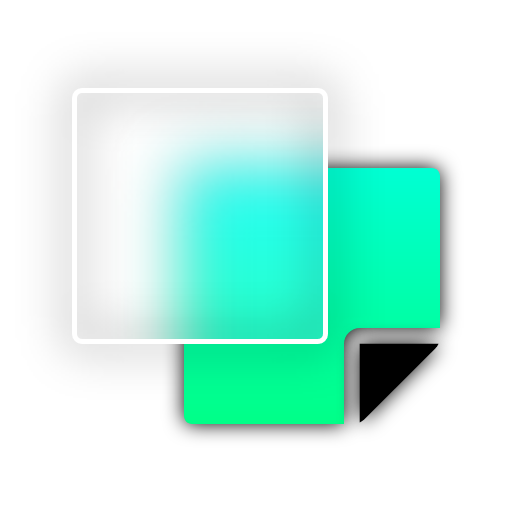
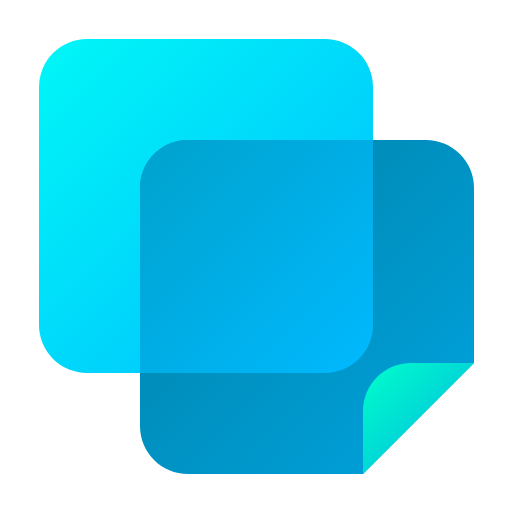
更换了图标，为大部分界面添加了动画，修改了课程表编辑器的界面，优化了自动设置颜色模式的逻辑使其在低版本系统中更好地工作

diff --git a/ZongziTEK_Blackboard_Sticker/TimetableEditor.xaml b/ZongziTEK_Blackboard_Sticker/TimetableEditor.xaml
@@ -6,29 +6,33 @@
         xmlns:ui="http://schemas.inkore.net/lib/ui/wpf/modern"
         xmlns:local="clr-namespace:ZongziTEK_Blackboard_Sticker"
         mc:Ignorable="d"
-        Title="ZongziTEK 黑板贴 - 课程表编辑器" Height="600" Width="800" MinHeight="450" MinWidth="800"
+        Title="ZongziTEK 黑板贴 - 编辑课程表" Height="600" Width="800" MinHeight="450" MinWidth="800"
         ui:WindowHelper.SystemBackdropType="Mica" ui:WindowHelper.UseModernWindowStyle="True" ui:WindowHelper.FixMaximizedWindow="False"
+        ui:TitleBar.Height="48" ui:TitleBar.IsIconVisible="True" ui:TitleBar.ExtendViewIntoTitleBar="True"
         Closing="Window_Closing" WindowStartupLocation="CenterScreen">
     <Grid>
-        <Grid VerticalAlignment="Top" Margin="24,12,24,12">
+        <Grid.RowDefinitions>
+            <RowDefinition Height="48"/>
+            <RowDefinition Height="auto"/>
+            <RowDefinition/>
+            <RowDefinition Height="24"/>
+        </Grid.RowDefinitions>
+        <!--<Grid VerticalAlignment="Top" Margin="24,12,24,12">
             <TextBlock Text="编辑课程表" FontSize="32"/>
             <Button Name="ButtonUseCurriculum" Height="32" Content="切换为旧版课程表 ( 无时间 )" HorizontalAlignment="Right" VerticalAlignment="Center" Click="ButtonUseCurriculum_Click"/>
+        </Grid>-->
+        <Grid Name="GridTitleBar" Grid.Row="0">
+            <Image Source="黑板贴.png" SnapsToDevicePixels="True" Width="16" HorizontalAlignment="Left" Margin="16,8"/>
+            <Label Margin="44,8" Content="ZongziTEK 黑板贴 - 编辑课程表" FontSize="12" VerticalAlignment="Center"/>
         </Grid>
-        <Grid Margin="24,64,24,64">
+        <Grid Grid.Row="2" Margin="16,8,16,0">
             <Grid.RowDefinitions>
                 <RowDefinition Height="auto"/>
                 <RowDefinition Height="auto"/>
                 <RowDefinition/>
             </Grid.RowDefinitions>
-            <ui:SimpleStackPanel Grid.Row="0" Spacing="8">
-                <StackPanel Orientation="Horizontal" Height="21" Opacity="0.8">
-                    <TextBlock Text="当前编辑的是: " FontSize="16"/>
-                    <TextBlock FontSize="16" Text="{Binding SelectedItem.Content, ElementName=ComboBoxDay}"/>
-                    <TextBlock Text="课表" FontSize="16"/>
-                </StackPanel>
-                <ui:InfoBar Name="InfoBarTempTimetable" Title="提示" Message="如需展示临时课表，请在课程表菜单中选择" IsClosable="False"/>
-            </ui:SimpleStackPanel>
-            <Border Height="48" Margin="0,8" Background="{DynamicResource {x:Static ui:ThemeKeys.CardBackgroundFillColorDefaultBrushKey}}" CornerRadius="2" BorderBrush="{DynamicResource BorderBrush}" BorderThickness="1" Grid.Row="1">
+            <ui:InfoBar Name="InfoBarTempTimetable" Grid.Row="0" Title="提示" Message="如需展示临时课表，请在课程表菜单中选择" IsClosable="False"/>
+            <Border Height="48" Margin="0,8" Background="{DynamicResource {x:Static ui:ThemeKeys.CardBackgroundFillColorDefaultBrushKey}}" CornerRadius="4" BorderBrush="{DynamicResource BorderBrush}" BorderThickness="1" Grid.Row="1">
                 <Grid>
                     <Grid.ColumnDefinitions>
                         <ColumnDefinition/>
@@ -46,49 +50,61 @@
                 </ui:SimpleStackPanel>
             </ui:ScrollViewerEx>
         </Grid>
-        <Grid VerticalAlignment="Bottom" Margin="24,12,24,12" Height="32">
-            <ui:SimpleStackPanel Spacing="8" Orientation="Horizontal">
-                <ComboBox Name="ComboBoxDay" Width="100" HorizontalAlignment="Left" SelectionChanged="ComboBoxDay_SelectionChanged">
-                    <ComboBoxItem Content="周一"/>
-                    <ComboBoxItem Content="周二"/>
-                    <ComboBoxItem Content="周三"/>
-                    <ComboBoxItem Content="周四"/>
-                    <ComboBoxItem Content="周五"/>
-                    <ComboBoxItem Content="周六"/>
-                    <ComboBoxItem Content="周日"/>
-                    <ComboBoxItem Content="临时"/>
-                </ComboBox>
-                <Button Name="ButtonCopy" Width="144" Height="32" Padding="10,0" Click="ButtonCopy_Click" HorizontalContentAlignment="Left">
-                    <ui:SimpleStackPanel Orientation="Horizontal" Spacing="8">
-                        <ui:FontIcon Glyph="{x:Static ui:SegoeIcons.Copy}" FontFamily="{StaticResource SegoeFluentIcons}"/>
-                        <Label Name="LabelCopy" Content="复制该天的课表"/>
-                    </ui:SimpleStackPanel>
-                </Button>
-                <Button Name="ButtonPaste" Visibility="Collapsed" Width="32" Height="32" Padding="0" Click="ButtonPaste_Click">
-                    <ui:FontIcon Glyph="{x:Static ui:SegoeIcons.Paste}" FontFamily="{StaticResource SegoeFluentIcons}"/>
-                </Button>
-            </ui:SimpleStackPanel>
-            <Button Name="ButtonInsertLesson" HorizontalAlignment="Center" Width="120" Click="ButtonInsertLesson_Click" VerticalAlignment="Stretch">
-                <ui:SimpleStackPanel Orientation="Horizontal" Spacing="8">
-                    <ui:FontIcon FontFamily="{StaticResource SegoeFluentIcons}" Glyph="{x:Static ui:SegoeIcons.Add}"/>
-                    <Label Content="新建课程"/>
+
+        <Border Grid.Row="1" Height="52" Margin="16,4,16,0" CornerRadius="4" BorderBrush="{DynamicResource BorderBrush}" BorderThickness="1"
+                Background="{DynamicResource {x:Static ui:ThemeKeys.CardBackgroundFillColorDefaultBrushKey}}">
+            <Grid Margin="16,8">
+                <ui:SimpleStackPanel Orientation="Horizontal" VerticalAlignment="Center" Spacing="8">
+                    <ComboBox Name="ComboBoxDay" Width="100" HorizontalAlignment="Left" SelectionChanged="ComboBoxDay_SelectionChanged">
+                        <ComboBoxItem Content="周一"/>
+                        <ComboBoxItem Content="周二"/>
+                        <ComboBoxItem Content="周三"/>
+                        <ComboBoxItem Content="周四"/>
+                        <ComboBoxItem Content="周五"/>
+                        <ComboBoxItem Content="周六"/>
+                        <ComboBoxItem Content="周日"/>
+                        <ComboBoxItem Content="临时"/>
+                    </ComboBox>
+                    <Button Name="ButtonCopy" BorderThickness="0" Background="#00000000" Width="144" Height="32" Padding="10,0" Click="ButtonCopy_Click" HorizontalContentAlignment="Left">
+                        <ui:SimpleStackPanel Orientation="Horizontal" Spacing="8">
+                            <ui:FontIcon Glyph="{x:Static ui:SegoeIcons.Copy}" FontFamily="{StaticResource SegoeFluentIcons}"/>
+                            <Label Name="LabelCopy" Content="复制该天的课表"/>
+                        </ui:SimpleStackPanel>
+                    </Button>
+                    <Button Name="ButtonPaste" BorderThickness="0" Background="#00000000" Width="0" Height="32" Padding="0" Click="ButtonPaste_Click">
+                        <ui:FontIcon Glyph="{x:Static ui:SegoeIcons.Paste}" FontFamily="{StaticResource SegoeFluentIcons}"/>
+                    </Button>
+
+                    <Rectangle Opacity="0.1" Width="1" Fill="{DynamicResource ForegroundColor}"/>
+
+                    <Button Name="ButtonInsertLesson" BorderThickness="0" Background="#00000000" HorizontalAlignment="Center" Width="120" Height="32" Click="ButtonInsertLesson_Click">
+                        <ui:SimpleStackPanel Orientation="Horizontal" Spacing="8">
+                            <ui:FontIcon FontFamily="{StaticResource SegoeFluentIcons}" Glyph="{x:Static ui:SegoeIcons.Add}"/>
+                            <Label Content="新建课程"/>
+                        </ui:SimpleStackPanel>
+                    </Button>
+
+                    <Rectangle Opacity="0.1" Width="1" Fill="{DynamicResource ForegroundColor}"/>
+
+                    <Button Content="关闭" Visibility="Collapsed" Width="80" Click="ButtonClose_Click" VerticalAlignment="Stretch"/>
+                    <Button Name="ButtonExport" BorderThickness="0" Background="#00000000" Width="32" Height="32" Padding="0" Click="ButtonExport_Click">
+                        <ui:FontIcon Glyph="{x:Static ui:SegoeIcons.ExportMirrored}"/>
+                    </Button>
+                    <Button Name="ButtonImport" BorderThickness="0" Background="#00000000" Width="32" Height="32" Padding="0" Click="ButtonImport_Click">
+                        <ui:FontIcon Glyph="{x:Static ui:SegoeIcons.Import}"/>
+                    </Button>
                 </ui:SimpleStackPanel>
-            </Button>
-            <ui:SimpleStackPanel HorizontalAlignment="Right" Spacing="8" Orientation="Horizontal">
-                <Button Content="关闭" Visibility="Collapsed" Width="80" Click="ButtonClose_Click" VerticalAlignment="Stretch"/>
-                <Button Name="ButtonExport" Width="32" Height="32" Padding="0" Click="ButtonExport_Click">
-                    <ui:FontIcon Glyph="{x:Static ui:SegoeIcons.ExportMirrored}"/>
-                </Button>
-                <Button Name="ButtonImport" Width="32" Height="32" Padding="0" Click="ButtonImport_Click">
-                    <ui:FontIcon Glyph="{x:Static ui:SegoeIcons.Import}"/>
-                </Button>
-                <Button Style="{StaticResource AccentButtonStyle}" Click="ButtonSave_Click" VerticalAlignment="Stretch">
+                <Button Style="{StaticResource AccentButtonStyle}" Height="32" HorizontalAlignment="Right" Click="ButtonSave_Click">
                     <ui:SimpleStackPanel Orientation="Horizontal" Spacing="8">
                         <ui:FontIcon Glyph="{x:Static ui:SegoeIcons.Save}"/>
                         <TextBlock Text="保存并关闭"/>
                     </ui:SimpleStackPanel>
                 </Button>
-            </ui:SimpleStackPanel>
-        </Grid>
+            </Grid>
+        </Border>
+        <ui:SimpleStackPanel Grid.Row="3" Margin="14,0" VerticalAlignment="Center" Orientation="Horizontal" Opacity="0.6">
+            <TextBlock Name="TextBlockLessonCount" Foreground="{DynamicResource ForegroundColor}" FontSize="12"/>
+            <TextBlock Foreground="{DynamicResource ForegroundColor}" Text=" 节课" FontSize="12"/>
+        </ui:SimpleStackPanel>
     </Grid>
 </Window>

diff --git a/ZongziTEK_Blackboard_Sticker/LauncherEditor.xaml b/ZongziTEK_Blackboard_Sticker/LauncherEditor.xaml
@@ -6,11 +6,22 @@
         xmlns:ui="http://schemas.inkore.net/lib/ui/wpf/modern"
         xmlns:local="clr-namespace:ZongziTEK_Blackboard_Sticker"
         mc:Ignorable="d"
-        Title="ZongziTEK 黑板贴 - 启动台编辑器" Height="450" Width="800" MinHeight="450" MinWidth="800"
+        Title="ZongziTEK 黑板贴 - 编辑启动台" Height="450" Width="800" MinHeight="450" MinWidth="800"
         ui:WindowHelper.SystemBackdropType="Mica" ui:WindowHelper.UseModernWindowStyle="True" ui:WindowHelper.FixMaximizedWindow="False"
+        ui:TitleBar.Height="36" ui:TitleBar.ExtendViewIntoTitleBar="True"
         WindowStartupLocation="CenterScreen">
     <Grid>
-        <Grid Name="GridHome">
+        <Grid.RowDefinitions>
+            <RowDefinition Height="48"/>
+            <RowDefinition/>
+        </Grid.RowDefinitions>
+
+        <Grid Name="GridTitleBar" Grid.Row="0">
+            <Image Source="黑板贴.png" SnapsToDevicePixels="True" Width="16" HorizontalAlignment="Left" Margin="16,8"/>
+            <Label Margin="44,8" Content="ZongziTEK 黑板贴 - 编辑启动台" FontSize="12" VerticalAlignment="Center"/>
+        </Grid>
+        
+        <Grid Name="GridHome" Grid.Row="1">
             <TextBlock Text="编辑启动台" Margin="24,12,24,12" FontSize="32"/>
             <ui:ProgressRing Name="ListProgressBar" IsIndeterminate="True" Margin="48" Visibility="Collapsed"/>
             <ui:ScrollViewerEx Name="ListScrollViewer" Margin="24,64,24,64" PanningMode="VerticalOnly">
@@ -22,7 +33,7 @@
             </ui:SimpleStackPanel>
         </Grid>
 
-        <Grid Name="GridInsert" Visibility="Collapsed">
+        <Grid Name="GridInsert" Visibility="Collapsed" Grid.Row="1">
             <ui:SimpleStackPanel Margin="24,12,24,12" Spacing="8">
                 <TextBlock Text="新建项" FontSize="32"/>
                 <ui:InfoBar Title="实验性功能" Message="已知问题：某些文件无法添加，或添加后不在启动台中显示" IsOpen="True" IsClosable="False"/>

diff --git a/ZongziTEK_Blackboard_Sticker/FullScreenClock.xaml b/ZongziTEK_Blackboard_Sticker/FullScreenClock.xaml
@@ -9,7 +9,7 @@
         ResizeMode="NoResize" WindowStyle="None" WindowState="Maximized" Loaded="Window_Loaded">
     <Grid Background="Black" MouseDown="Grid_MouseDown">
         <Grid>
-            <Viewbox Margin="100">
+            <Viewbox Name="ViewboxClock" Margin="100">
                 <TextBlock x:Name="textBlockBigClock" Foreground="White"
                        HorizontalAlignment="Center" VerticalAlignment="Center" FontFamily="Resources\#Digital-7 Mono" Text="--:--:--"
                        x:FieldModifier="public"/>

diff --git a/ZongziTEK_Blackboard_Sticker/Controls/TimetableEditorItem.xaml b/ZongziTEK_Blackboard_Sticker/Controls/TimetableEditorItem.xaml
@@ -14,7 +14,7 @@
     </UserControl.Resources>
     <Border HorizontalAlignment="Stretch" VerticalAlignment="Stretch" Height="48"
             Background="{DynamicResource {x:Static ui:ThemeKeys.CardBackgroundFillColorDefaultBrushKey}}" 
-            CornerRadius="2" BorderBrush="{DynamicResource BorderBrush}" BorderThickness="1">
+            CornerRadius="4" BorderBrush="{DynamicResource BorderBrush}" BorderThickness="1">
         <Grid>
             <Grid.ColumnDefinitions>
                 <ColumnDefinition/>

diff --git a/ZongziTEK_Blackboard_Sticker/TimetableEditor.xaml.cs b/ZongziTEK_Blackboard_Sticker/TimetableEditor.xaml.cs
@@ -150,6 +150,7 @@ namespace ZongziTEK_Blackboard_Sticker
             isEdited = true;
 
             SetButtonCopyIsEnabled();
+            TextBlockLessonCount.Text = GetSelectedDay().Count.ToString();
         }
 
         private void ButtonInsertLesson_Click(object sender, RoutedEventArgs e)
@@ -163,6 +164,7 @@ namespace ZongziTEK_Blackboard_Sticker
             isEdited = true;
 
             SetButtonCopyIsEnabled();
+            TextBlockLessonCount.Text = GetSelectedDay().Count.ToString();
         }
 
         private void ScrollViewerTimetable_PreviewMouseWheel(object sender, MouseWheelEventArgs e)
@@ -178,9 +180,12 @@ namespace ZongziTEK_Blackboard_Sticker
 
         private async void LoadTimetable()
         {
+            TextBlockLessonCount.Text = GetSelectedDay().Count.ToString();
+
             ListStackPanel.Children.Clear();
 
             ScrollViewerTimetable.VerticalScrollBarVisibility = ScrollBarVisibility.Hidden;
+            ScrollViewerTimetable.ScrollToTop();
 
             foreach (Lesson lesson in GetSelectedDay())
             {
@@ -238,14 +243,14 @@ namespace ZongziTEK_Blackboard_Sticker
 
             if (ButtonCopy.ActualWidth > 32)
             {
-                DoubleAnimation buttonCopyAnimation = new()
+                DoubleAnimation buttonCopyWidthAnimation = new()
                 {
                     From = ButtonCopy.ActualWidth,
                     To = 32,
                     Duration = TimeSpan.FromMilliseconds(500),
                     EasingFunction = new CubicEase() { EasingMode = EasingMode.EaseInOut }
                 };
-                ButtonCopy.BeginAnimation(WidthProperty, buttonCopyAnimation);
+                ButtonCopy.BeginAnimation(WidthProperty, buttonCopyWidthAnimation);
 
                 ThicknessAnimation buttonCopyPaddingAnimation = new()
                 {
@@ -256,15 +261,24 @@ namespace ZongziTEK_Blackboard_Sticker
                 };
                 ButtonCopy.BeginAnimation(PaddingProperty, buttonCopyPaddingAnimation);
 
-                DoubleAnimation buttonPasteAnimation = new()
+                DoubleAnimation buttonPasteWidthAnimation = new()
+                {
+                    From = 0,
+                    To = 32,
+                    Duration = TimeSpan.FromMilliseconds(500),
+                    EasingFunction = new CubicEase() { EasingMode = EasingMode.EaseInOut }
+                };
+                ButtonPaste.BeginAnimation(WidthProperty, buttonPasteWidthAnimation);
+                ButtonPaste.Visibility = Visibility.Visible;
+
+                DoubleAnimation buttonPasteOpacityAnimation = new()
                 {
                     From = 0,
                     To = 1,
                     Duration = TimeSpan.FromMilliseconds(500),
                     EasingFunction = new CubicEase() { EasingMode = EasingMode.EaseInOut }
                 };
-                ButtonPaste.Visibility = Visibility.Visible;
-                ButtonPaste.BeginAnimation(OpacityProperty, buttonPasteAnimation);
+                ButtonPaste.BeginAnimation(OpacityProperty, buttonPasteOpacityAnimation);
 
                 await Task.Delay(500);
                 LabelCopy.Visibility = Visibility.Collapsed;

diff --git a/ZongziTEK_Blackboard_Sticker/LauncherEditor.xaml.cs b/ZongziTEK_Blackboard_Sticker/LauncherEditor.xaml.cs
@@ -88,7 +88,7 @@ namespace ZongziTEK_Blackboard_Sticker
                         HorizontalAlignment = HorizontalAlignment.Stretch,
                         Height = 48,
                         Background = (Brush)FindResource(ThemeKeys.CardBackgroundFillColorDefaultBrushKey),
-                        CornerRadius = new CornerRadius(2),
+                        CornerRadius = new CornerRadius(4),
                         BorderBrush = (Brush)FindResource("BorderBrush"),
                         BorderThickness = new Thickness(1)
                     };
@@ -228,8 +228,27 @@ namespace ZongziTEK_Blackboard_Sticker
         {
             TextBoxFilePath.Text = "";
             TextBoxLinkName.Text = "";
-            GridInsert.Visibility = Visibility.Visible;
             GridHome.Visibility = Visibility.Collapsed;
+
+            ThicknessAnimation gridInsertMarginAnimation = new()
+            {
+                From = new Thickness(-48),
+                To = new Thickness(0),
+                Duration = TimeSpan.FromMilliseconds(500),
+                EasingFunction = new CubicEase() { EasingMode = EasingMode.EaseOut }
+            };
+            GridInsert.BeginAnimation(MarginProperty, gridInsertMarginAnimation);
+
+            DoubleAnimation gridInsertOpacityAnimation = new()
+            {
+                From = 0,
+                To = 1,
+                Duration = TimeSpan.FromMilliseconds(500),
+                EasingFunction = new CubicEase() { EasingMode = EasingMode.EaseOut }
+            };
+            GridInsert.BeginAnimation(OpacityProperty, gridInsertOpacityAnimation);
+
+            GridInsert.Visibility = Visibility.Visible;
         }
         private void ButtonCancelNew_Click(object sender, RoutedEventArgs e)
         {

diff --git a/ZongziTEK_Blackboard_Sticker/FullScreenClock.xaml.cs b/ZongziTEK_Blackboard_Sticker/FullScreenClock.xaml.cs
@@ -29,6 +29,24 @@ namespace ZongziTEK_Blackboard_Sticker
 
         private void Window_Loaded(object sender, RoutedEventArgs e)
         {
+            DoubleAnimation opacityAnimation = new()
+            {
+                From = 0,
+                To = 1,
+                Duration = TimeSpan.FromMilliseconds(750),
+                EasingFunction = new CubicEase() { EasingMode = EasingMode.EaseOut }
+            };
+            BeginAnimation(OpacityProperty, opacityAnimation);
+
+            ThicknessAnimation clockMarginAnimation = new()
+            {
+                From = new Thickness(24),
+                To = new Thickness(100),
+                Duration = TimeSpan.FromMilliseconds(750),
+                EasingFunction = new CubicEase() { EasingMode = EasingMode.EaseOut }
+            };
+            ViewboxClock.BeginAnimation(MarginProperty, clockMarginAnimation);
+
             textBlockBigClock.Text = DateTime.Now.ToString(("HH:mm:ss"));
 
             clockTimer = new DispatcherTimer();

diff --git a/ZongziTEK_Blackboard_Sticker/MainWindow.xaml.cs b/ZongziTEK_Blackboard_Sticker/MainWindow.xaml.cs
@@ -2000,7 +2000,7 @@ namespace ZongziTEK_Blackboard_Sticker
 
         private bool IsSystemThemeLight()
         {
-            bool light = false;
+            bool light = true;
             try
             {
                 RegistryKey registryKey = Registry.CurrentUser;
